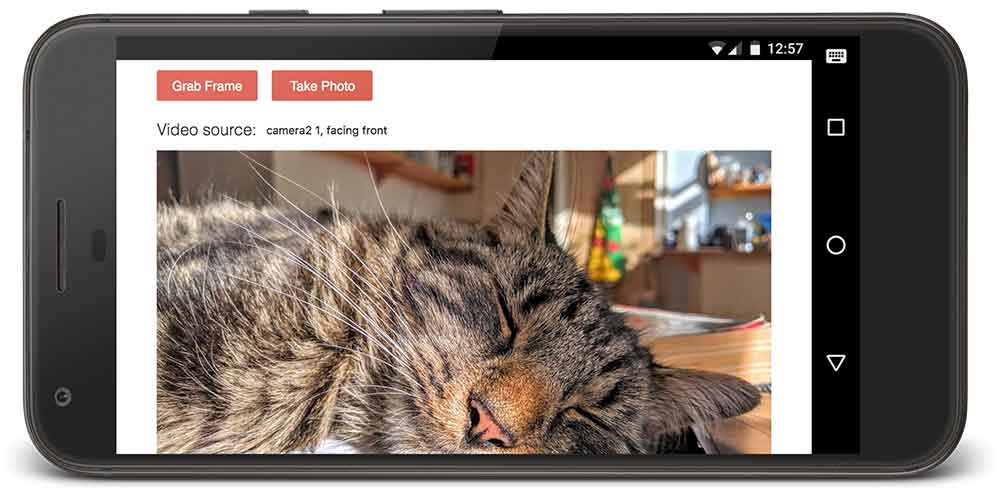
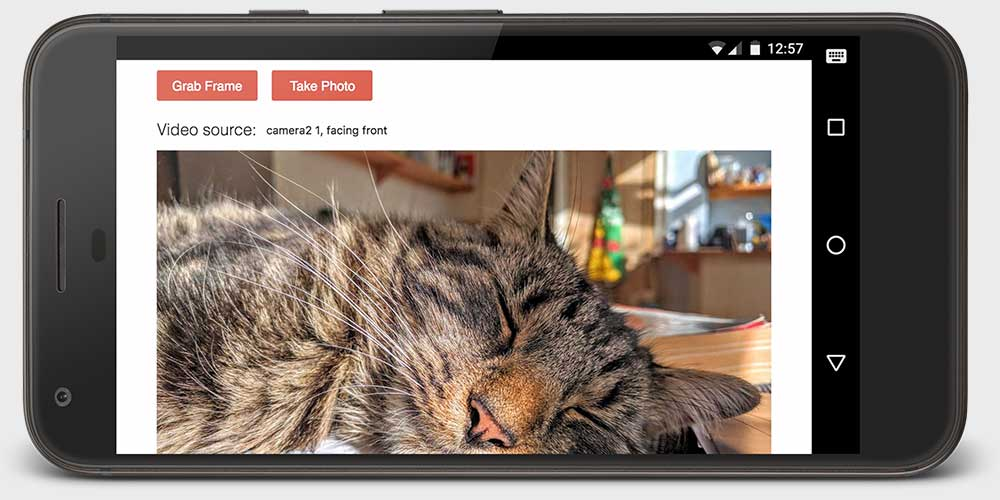
Added demo

diff --git a/src/content/en/updates/2016/12/imagecapture.md b/src/content/en/updates/2016/12/imagecapture.md
@@ -1,20 +1,71 @@
 project_path: /web/_project.yaml
 book_path: /web/updates/_book.yaml
-description: `ImageCapture` is an API for controlling camera settings and taking photos.
+description: ImageCapture is an API for controlling camera settings and taking photos.
 
 {# wf_updated_on: 2016-12-05 #}
 {# wf_published_on: 2016-12-05 #}
 {# wf_tags: canvas,chrome56,media,webrtc #}
 {# wf_featured_image: /web/updates/images/2016/12/imagecapture/featured.jpg #}
-{# wf_featured_snippet: `ImageCapture` is an API for controlling camera settings and taking photos. #}
+{# wf_featured_snippet: ImageCapture is an API for controlling camera settings and taking photos. #}
 
 <style>
-video {
+#demo .hidden {
+  display: none;
+}
+
+#demo button {
+  display: block;
+  float: left;
+  margin: 0 10px 20px 0;
+  width: 120px;
+}
+
+#demo button:last-of-type {
+  float: none;
+  margin: 0 0 20px 0;
+}
+
+#demo canvas {
+  display: block;
+  margin: 0 0 20px 0;
+}
+
+#demo img {
+  display: block;
+  margin: 0 0 20px 0;
+}
+
+#demo input#zoom {
+  margin: 0 0 20px 0;
+  width: 100%;
+}
+
+#demo select {
+  margin: 0 0 20px 0;
+}
+
+#demo video {
+  margin: 0 12px 20px 0;
+  vertical-align: top;
   max-width: 100%;
 }
+
+@media screen and (max-width: 500px) {
+  #demo button {
+    font-size: 0.8em;
+    width: calc(33% - 5px);
+  }
+}
+
+@media screen and (max-width: 720px) {
+  #demo video {
+    margin: 0 10px 10px 0;
+  }
+}
+
 </style>
 
-# Take photos {: .page-title }
+# Take photos and control camera settings {: .page-title }
 
 {% include "web/_shared/contributors/samdutton.html" %}
 
@@ -22,12 +73,12 @@ video {
 
 The API has four methods:
 
-* `takePhoto()` returns a `Blob` which can be downloaded, stored by the browser or displayed in an img element.
-* `grabFrame()` returns an `ImageData` object that can be post-processed.
+* `takePhoto()` returns a `Blob` which can be downloaded, stored by the browser or displayed in an `img` element.
+* `grabFrame()` returns an `ImageData` object which can be post-processed — for example, to selectively change color values.
 * `getPhotoCapabilities()` returns a `PhotoCapabilities` object that provides access to available camera options and their current values.
 * `setOptions()` is used to configure [camera settings](http://www.w3.org/TR/image-capture/#photosettings) such as zoom, white balance or focus mode.
 
-`ImageCapture` accesses cameras via `getUserMedia()`:
+`ImageCapture` gets access to media streams from cameras via `getUserMedia()`:
 
     navigator.mediaDevices.getUserMedia({video: true})
       .then(gotMedia)
@@ -39,19 +90,24 @@ The API has four methods:
       console.log(imageCapture);
     }
 
-NOTE: To choose between different cameras, such as the front and back camera on a phone, get a list of available cameras via the `MediaDevices.enumerateDevicesMethod()`, then set `deviceId` in `getUserMedia()` constraints.
+Note: To choose between different cameras, such as the front and back camera on
+a phone, get a list of available devices via the
+`MediaDevices.enumerateDevicesMethod()`, then set `deviceId` in `getUserMedia()`
+constraints.
 
-You can use `takePhoto()` to get a still image and then set it as the `src` of an `<img>`:
+You can use `takePhoto()` to get a still image and then set it as the `src` of
+an `<img>`:
 
-    imageCapture.takePhoto()
+    imageCapture.<strong>takePhoto()</strong>
       .then(blob => {
         image.src = URL.createObjectURL(blob);
       })
       .catch(error => console.error('takePhoto() error:', error));
 
-Use `grabFrame()` to get data for a frame of video and then draw it on a `<canvas>`:
+Use `grabFrame()` to get data for a frame of video and then draw
+it on a `<canvas>`:
 
-    imageCapture.grabFrame()
+    imageCapture.<strong>grabFrame()</strong>
       .then(imageData => {
         canvas.width = imageData.width;
         canvas.height = imageData.height;
@@ -59,7 +115,33 @@ Use `grabFrame()` to get data for a frame of video and then draw it on a `<canva
       })
       .catch(error => console.error('grabFrame() error:', error));
 
-The full range of possible camera resolutions for still images can be accessed via the MediaSettingsRange values for `captureDevice.photoCapabilities.imageHeight` and `imageWidth`. Note that the minimum and maximum width and height constraints for `getUserMedia()` are for video, which may be less than the camera capabilities for still images. In other words, you may not be able to access the full resolution capabilities of your device when saving from `getUserMedia()` to a canvas. See the example at https://webrtc.github.io/samples/src/content/getusermedia/resolution.)
+You can try out `takePhoto()` and `grabFrame()` below.
+
+<div id="demo">
+  <button id="grabFrame">Grab Frame</button>
+  <button id="takePhoto">Take Photo</button>
+  <div class="select">
+  <label for="videoSource">Video source: </label><select id="videoSource"></select>
+  </div>
+  <input class="hidden" id="zoom" type="range" step="20">
+</div>
+
+<video autoplay class="hidden"></video>
+<img>
+<canvas class="hidden"></canvas>
+
+
+
+## Camera capabilities
+
+The full range of possible camera resolutions for still images can be accessed
+via the `MediaSettingsRange` values for
+`captureDevice.photoCapabilities.imageHeight` and `imageWidth`. Note that the
+minimum and maximum width and height constraints for `getUserMedia()` are for
+video, which may be less than the camera capabilities for still images. In other
+words, you may not be able to access the full resolution capabilities of your
+device when saving from `getUserMedia()` to a canvas. See the example at
+https://webrtc.github.io/samples/src/content/getusermedia/resolution.)
 
 
 ## Demos
@@ -72,3 +154,127 @@ The full range of possible camera resolutions for still images can be accessed v
 
 
 {% include "comment-widget.html" %}
+
+<script>
+'use strict';
+
+/* globals ImageCapture */
+
+var constraints;
+var imageCapture;
+
+var grabFrameButton = document.querySelector('#ic-demo button#grabFrame');
+var takePhotoButton = document.querySelector('#ic-demo button#takePhoto');
+
+var canvas = document.querySelector('#ic-demo canvas');
+var img = document.querySelector('#ic-demo img');
+var video = document.querySelector('#ic-demo video');
+var videoSelect = document.querySelector('#ic-demo select#videoSource');
+var zoomInput = document.querySelector('#ic-demo input#zoom');
+
+grabFrameButton.onclick = grabFrame;
+takePhotoButton.onclick = takePhoto;
+videoSelect.onchange = getStream;
+zoomInput.oninput = setZoom;
+
+// Get a list of available media input (and output) devices.
+navigator.mediaDevices.enumerateDevices().then(gotDevices).
+  catch(error => {
+    console.log('Error getting devices: ', error);
+  });
+
+// Get a video stream from the currently selected camera source.
+function getStream() {
+  if (window.stream) {
+    window.stream.getTracks().forEach(track => {
+      track.stop();
+    });
+  }
+  var videoSource = videoSelect.value;
+  constraints = {
+    audio: false,
+    video: {deviceId: videoSource ? {exact: videoSource} : undefined}
+  };
+  navigator.mediaDevices.getUserMedia(constraints).
+    then(gotStream).then(gotDevices).catch(error => {
+      console.log('getUserMedia error: ', error);
+    });
+}
+
+// From the list of media devices available, set up the camera source <select>,
+// then get a video stream from the default camera source.
+function gotDevices(deviceInfos) {
+  for (var i = 0; i !== deviceInfos.length; ++i) {
+    var deviceInfo = deviceInfos[i];
+    console.log('Found media input or output device: ', deviceInfo);
+    var option = document.createElement('option');
+    option.value = deviceInfo.deviceId;
+    if (deviceInfo.kind === 'videoinput') {
+      option.text = deviceInfo.label || 'Camera ' + (videoSelect.length + 1);
+      videoSelect.appendChild(option);
+    }
+  }
+  getStream();
+}
+
+// Display the stream from the currently selected camera source, and then
+// create an ImageCapture object, using the video from the stream.
+function gotStream(stream) {
+  console.log('getUserMedia() got stream: ', stream);
+  window.stream = stream; // global scope visible in browser console
+  if (window.URL) {
+    video.src = window.URL.createObjectURL(stream);
+    video.classList.remove('hidden');
+  } else {
+    video.src = stream;
+  }
+  imageCapture = new ImageCapture(stream.getVideoTracks()[0]);
+  setTimeout(getCapabilities, 100);
+}
+
+// Get the PhotoCapabilities for the currently selected camera source.
+function getCapabilities() {
+  imageCapture.getPhotoCapabilities().then(function(capabilities) {
+    console.log('Camera capabilities:', capabilities);
+    if (capabilities.zoom.max > 0) {
+      zoomInput.min = capabilities.zoom.min;
+      zoomInput.max = capabilities.zoom.max;
+      zoomInput.value = capabilities.zoom.current;
+      zoomInput.classList.remove('hidden');
+    }
+  }).catch(function(error) {
+    console.log('navigator.getUserMedia error: ', error);
+  });
+}
+
+// Get an ImageBitmap from the currently selected camera source and
+// display this with a canvas element.
+function grabFrame() {
+  imageCapture.grabFrame().then(function(imageBitmap) {
+    console.log('Grabbed frame:', imageBitmap);
+    canvas.width = imageBitmap.width;
+    canvas.height = imageBitmap.height;
+    canvas.getContext('2d').drawImage(imageBitmap, 0, 0);
+    canvas.classList.remove('hidden');
+  }).catch(function(error) {
+    console.log('grabFrame() error: ', error);
+  });
+}
+
+function setZoom() {
+  imageCapture.setOptions({
+    zoom: zoomInput.value
+  });
+}
+
+// Get a Blob from the currently selected camera source and
+// display this with an img element.
+function takePhoto() {
+  imageCapture.takePhoto().then(function(blob) {
+    console.log('Took photo:', blob);
+    img.src = URL.createObjectURL(blob);
+  }).catch(function(error) {
+    console.log('takePhoto() error: ', error);
+  });
+}
+</script>
